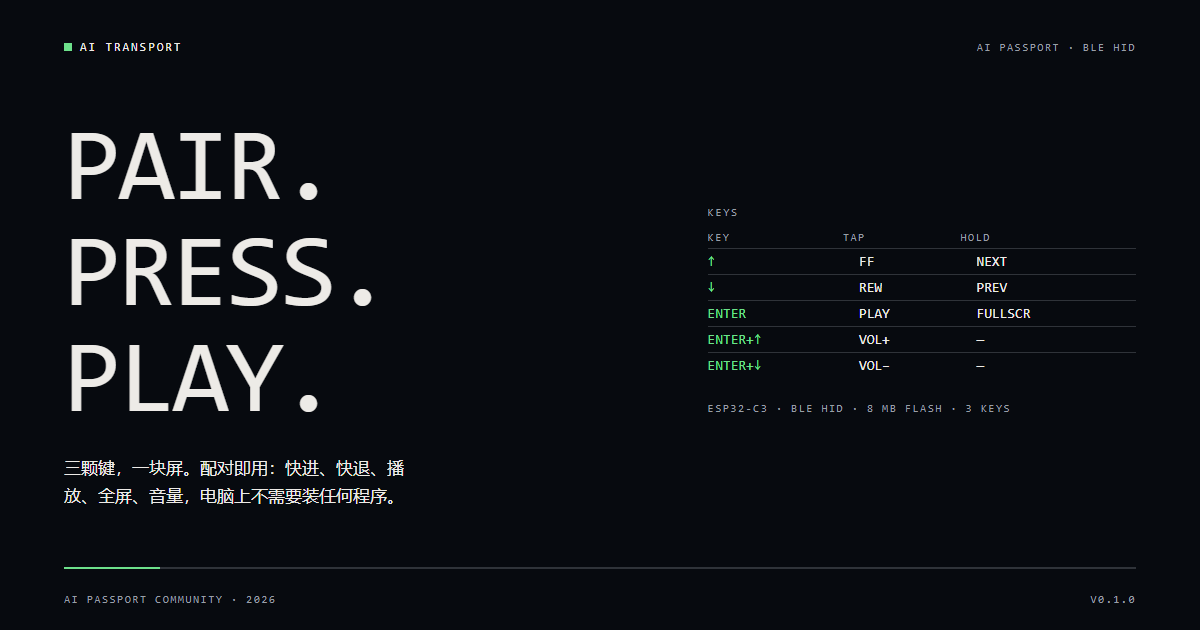
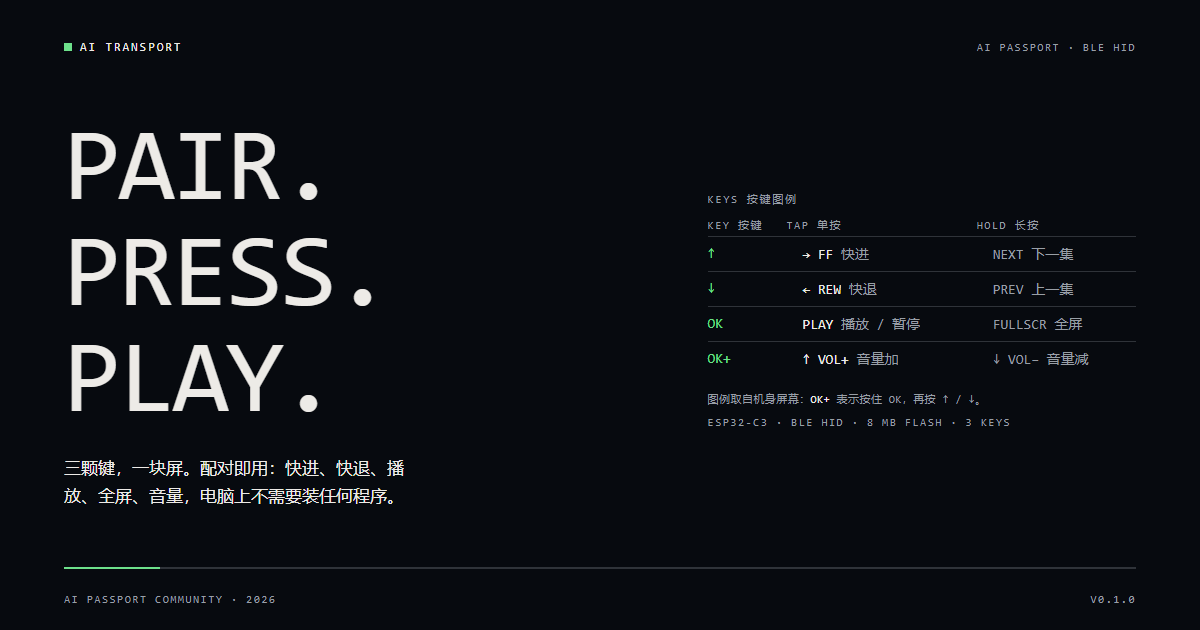
fix(docs): align cover key table with on-device legend
The cover table now mirrors what the firmware prints on the device screen
(add_guide_row calls in main/media_remote.c): four rows, the same wording
FF/NEXT, REW/PREV, PLAY/FULLSCR and the OK+ volume pair.

- Enter -> OK: the third key is LV_SYMBOL_OK on screen and "OK" in README.
- Every cell gains a Chinese gloss; the hold column uses the muted tone, as
  the device legend does.
- Add the "OK+ means hold OK, then press an arrow" hint.
- Document the real render command: headless Edge reads a relative page
  argument as a URL, so the page path has to be absolute.

The PNG is re-rendered from cover.html; the firmware build is unaffected.

Changed region(s): [[0.5858, 0.3016, 0.925, 0.6937]]

diff --git a/docs/assets/cover/cover.css b/docs/assets/cover/cover.css
@@ -3,6 +3,8 @@
  * paper: oklch(14.5% 0.012 255) · accent: oklch(82% 0.16 150) · display: Consolas · body: Consolas + Microsoft YaHei UI
  * axes: dark / mono / chromatic-green · enrichment: none · nav: none (cover artifact) · footer: Ft4 adapted
  * studied: no · context: inferred (user: "极简代码风") · artifact: 1200×630 community cover
+ * key table: rows mirror the on-device legend in main/media_remote.c (add_guide_row calls);
+ * each cell carries the English term the device prints plus a Chinese gloss.
  */
 /* Hallmark · pre-emit critique: P5 H5 E4 S4 R5 V4 */
 
@@ -130,15 +132,35 @@ body {
 }
 
 .keys td {
-  padding: var(--space-2xs) 0;
+  padding: var(--space-xs) 0;
   border-top: 1px solid var(--color-rule);
 }
 
+/* Colour split mirrors the on-device legend: key glyph in signal green,
+   tap column in ink, hold column in the muted tone. */
 .keys td:first-child { color: var(--color-accent); }
+.keys td:nth-child(3) { color: var(--color-muted); }
 .keys td + td { padding-left: var(--space-md); }
 
+/* The Chinese gloss trails the English legend term the device prints, so the
+   cover reads as the same table with a translation rather than a new one. */
+.keys .zh { color: var(--color-muted); }
+
+.hint {
+  margin: var(--space-md) 0 0;
+  font-size: var(--text-2xs);
+  letter-spacing: 0.04em;
+  line-height: 1.5;
+  color: var(--color-muted);
+}
+
+.hint b {
+  font-weight: 400;
+  color: var(--color-ink);
+}
+
 .spec {
-  margin: var(--space-lg) 0 0;
+  margin: var(--space-xs) 0 0;
   font-size: var(--text-2xs);
   letter-spacing: 0.14em;
   text-transform: uppercase;
@@ -194,5 +216,6 @@ body {
   .lede,
   .note,
   .spec,
+  .hint,
   .keys { overflow-wrap: anywhere; }
 }

diff --git a/docs/assets/cover/cover.html b/docs/assets/cover/cover.html
@@ -22,18 +22,22 @@
 
       <aside>
         <table class="keys">
-          <caption>Keys</caption>
+          <caption>KEYS <span class="zh">按键图例</span></caption>
           <thead>
-            <tr><th scope="col">Key</th><th scope="col">Tap</th><th scope="col">Hold</th></tr>
+            <tr>
+              <th scope="col">KEY <span class="zh">按键</span></th>
+              <th scope="col">TAP <span class="zh">单按</span></th>
+              <th scope="col">HOLD <span class="zh">长按</span></th>
+            </tr>
           </thead>
           <tbody>
-            <tr><td>↑</td><td>FF</td><td>NEXT</td></tr>
-            <tr><td>↓</td><td>REW</td><td>PREV</td></tr>
-            <tr><td>ENTER</td><td>PLAY</td><td>FULLSCR</td></tr>
-            <tr><td>ENTER+↑</td><td>VOL+</td><td>—</td></tr>
-            <tr><td>ENTER+↓</td><td>VOL−</td><td>—</td></tr>
+            <tr><td>↑</td><td>→ FF <span class="zh">快进</span></td><td>NEXT <span class="zh">下一集</span></td></tr>
+            <tr><td>↓</td><td>← REW <span class="zh">快退</span></td><td>PREV <span class="zh">上一集</span></td></tr>
+            <tr><td>OK</td><td>PLAY <span class="zh">播放 / 暂停</span></td><td>FULLSCR <span class="zh">全屏</span></td></tr>
+            <tr><td>OK+</td><td>↑ VOL+ <span class="zh">音量加</span></td><td>↓ VOL− <span class="zh">音量减</span></td></tr>
           </tbody>
         </table>
+        <p class="hint">图例取自机身屏幕：<b>OK+</b> 表示按住 OK，再按 ↑ / ↓。</p>
         <p class="spec">ESP32-C3 · BLE HID · 8 MB Flash · 3 Keys</p>
       </aside>
     </section>

diff --git a/docs/assets/README.md b/docs/assets/README.md
@@ -20,14 +20,24 @@ The cover is a static HTML page; the PNG is a headless-browser screenshot. No bu
 step and no dependencies beyond a Chromium-based browser.
 
 ```powershell
+$root = (Resolve-Path .).Path   # run this from docs/assets
 msedge --headless=new --disable-gpu --hide-scrollbars --force-device-scale-factor=1 `
-  --window-size=1200,630 --screenshot=images\cover-ai-transport.png `
-  cover\cover.html
+  --window-size=1200,630 `
+  --screenshot="$root\images\cover-ai-transport.png" `
+  "$root\cover\cover.html"
 ```
 
+The page has to be passed as an absolute path: headless Edge reads a relative argument as a
+URL (`cover\cover.html` becomes `http://cover/cover.html` and the run produces no file).
+
 Open `cover/cover.html` directly in a browser to preview it. Edit `cover/tokens.css`
-for palette/type changes and `cover/cover.css` for layout. The table in the HTML is the
-real key map; keep it in sync with `main/media_cmd.c`.
+for palette/type changes and `cover/cover.css` for layout.
+
+The cover table is not a separate explainer: it is the legend the device prints on its
+own screen — four rows, the same wording (`FF` / `NEXT` / `PLAY` / `FULLSCR` / `VOL+` …),
+with a Chinese gloss added to each cell. The rows come from the `add_guide_row()` calls in
+`main/media_remote.c`; the key mapping itself lives in `main/media_cmd.c`. Change a key
+and update all three.
 
 ## Boundary
 

diff --git a/docs/assets/README.zh_CN.md b/docs/assets/README.zh_CN.md
@@ -19,13 +19,22 @@
 封面是一个静态 HTML 页面，PNG 是无头浏览器截图。没有构建步骤，只依赖 Chromium 系浏览器。
 
 ```powershell
+$root = (Resolve-Path .).Path   # 在本目录执行
 msedge --headless=new --disable-gpu --hide-scrollbars --force-device-scale-factor=1 `
-  --window-size=1200,630 --screenshot=images\cover-ai-transport.png `
-  cover\cover.html
+  --window-size=1200,630 `
+  --screenshot="$root\images\cover-ai-transport.png" `
+  "$root\cover\cover.html"
 ```
 
+页面参数必须用绝对路径：无头 Edge 会把相对参数当成 URL（`cover\cover.html` 会变成
+`http://cover/cover.html`，跑完不生成文件）。
+
 直接用浏览器打开 `cover/cover.html` 可以预览。改配色/字体改 `cover/tokens.css`，改版式改
-`cover/cover.css`。HTML 里的按键表就是真实键位，改键位时与 `main/media_cmd.c` 保持一致。
+`cover/cover.css`。
+
+封面按键表不是另编的说明，而是机身屏幕上的那张图例：4 行、同一组词（`FF` / `NEXT` /
+`PLAY` / `FULLSCR` / `VOL+` …），逐格补上中文词。图例行来自 `main/media_remote.c` 的
+`add_guide_row()`，键位映射以 `main/media_cmd.c` 为准；改键位时三处一起改。
 
 ## 边界
 
